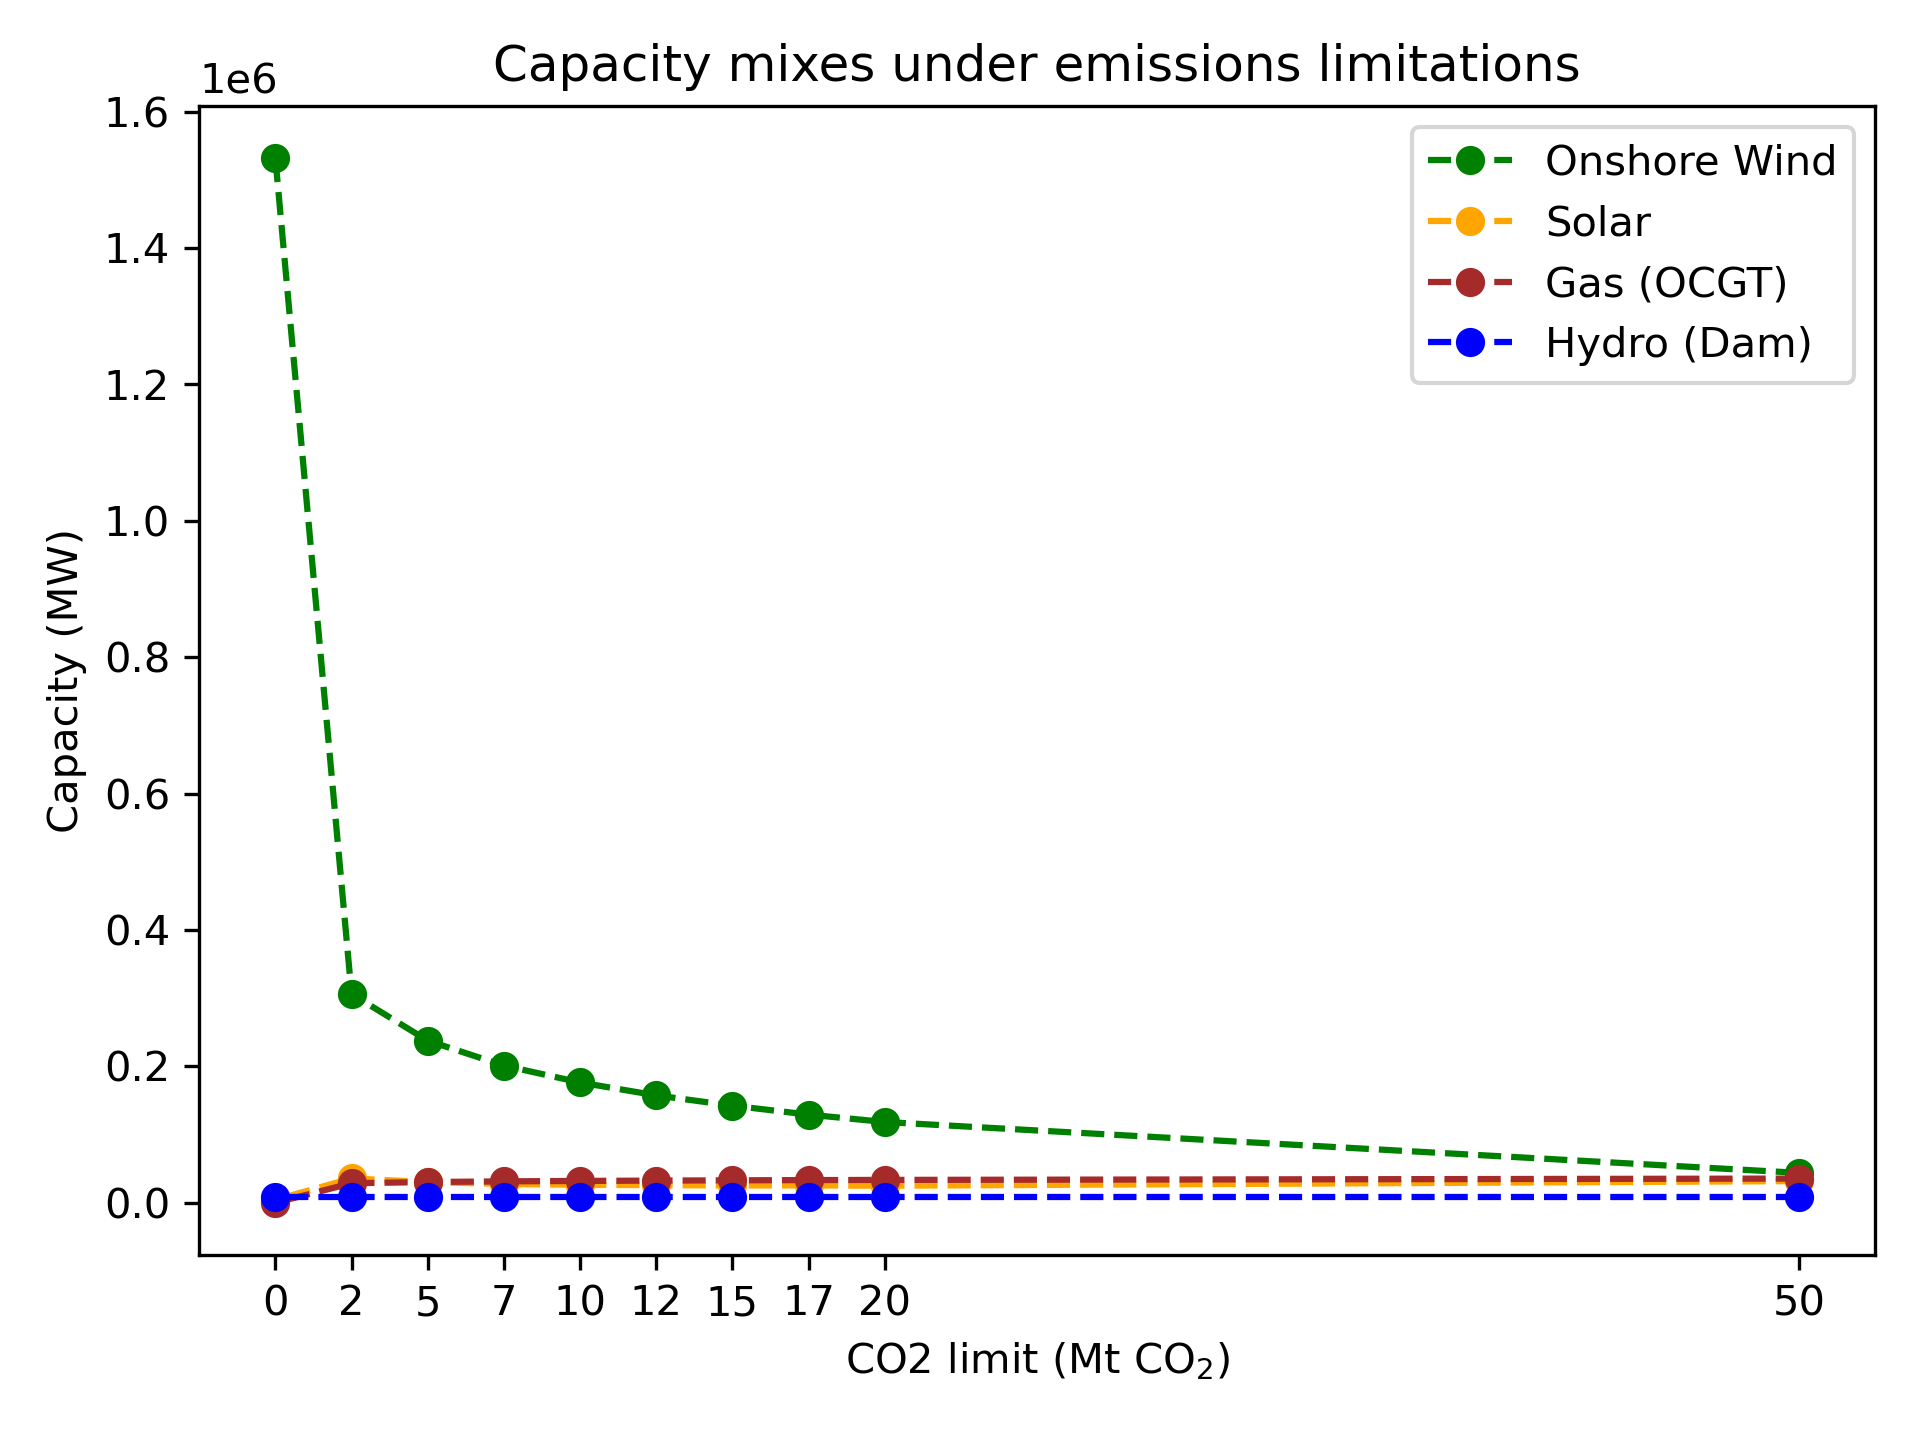
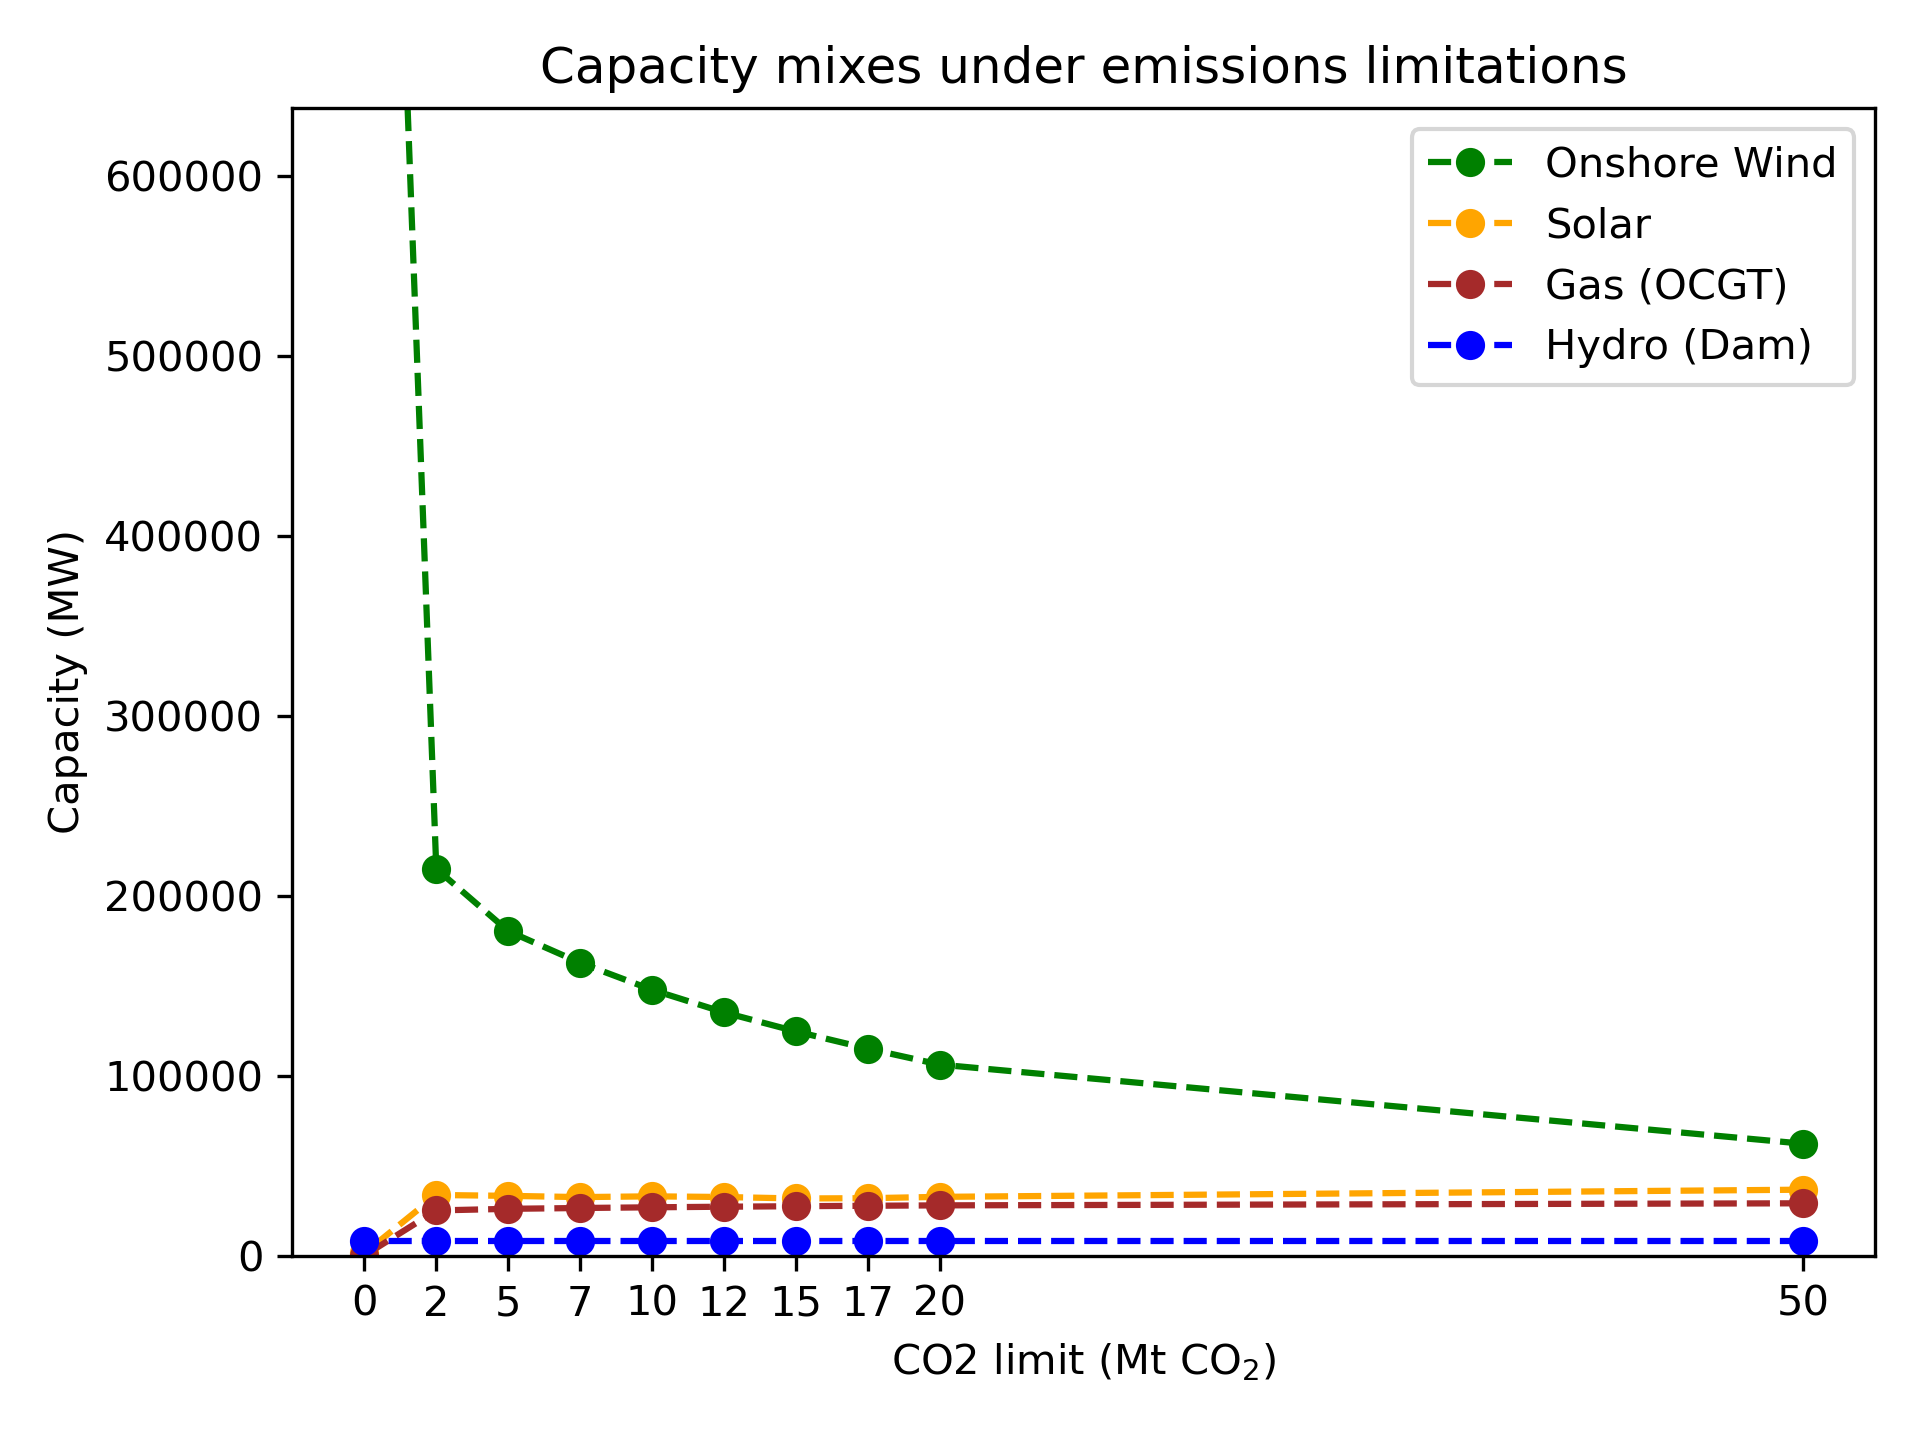
seaborn era

diff --git a/results_plotter.py b/results_plotter.py
@@ -3,6 +3,16 @@ import pathlib
 import numpy as np
 import pypsa
 from typing import List, Tuple
+import seaborn as sns
+
+sns.set_theme(style="whitegrid")
+# Set the default font size for all plots
+plt.rcParams.update({'font.size': 12})
+plt.rcParams['axes.titlesize'] = 14
+plt.rcParams['axes.labelsize'] = 12
+plt.rcParams['xtick.labelsize'] = 10
+plt.rcParams['ytick.labelsize'] = 10
+
 
 REFERENCES  = {'GENERATORS' : ['onshore wind', 'solar', 'OCGT'],
                'LINKS'      : ['HDAM'],
@@ -110,10 +120,10 @@ def plot_capacity_variation_under_varying_co2_limits(network_sols, co2_limits, f
     
     mixes = np.array(network_sols).T
     for ix, label in enumerate(labels):
-        plt.plot(co2_limits, mixes[ix], '--bo', label=label, color=colors[ix])
+        plt.plot(co2_limits, mixes[ix]*1e-3, '--bo', label=label, color=colors[ix])
     plt.xlabel(r"CO2 limit (Mt CO$_2$)")
     plt.xticks(co2_limits, [str(int(x/1e6)) for x in co2_limits])
-    plt.ylabel(r"Capacity (MW)")
+    plt.ylabel(r"Capacity (GW)")
     plt.ylim(0, 0.5 * max(mixes.flatten()))
     plt.legend()
     plt.title(r'Capacity mixes under emissions limitations')

diff --git a/b.py b/b.py
@@ -42,4 +42,4 @@ if __name__ == '__main__':
     network.optimize.create_model()
     # Spain's CO2 emissions data: https://www.iea.org/countries/spain/emissions
     # It is at 49 MT CO2 in 2022, down from 118 MT in 2007. Was at 40 MT in 2020.
-    simulate_tests(network, n_opts=10)
+    simulate_tests(network, n_opts=2)
